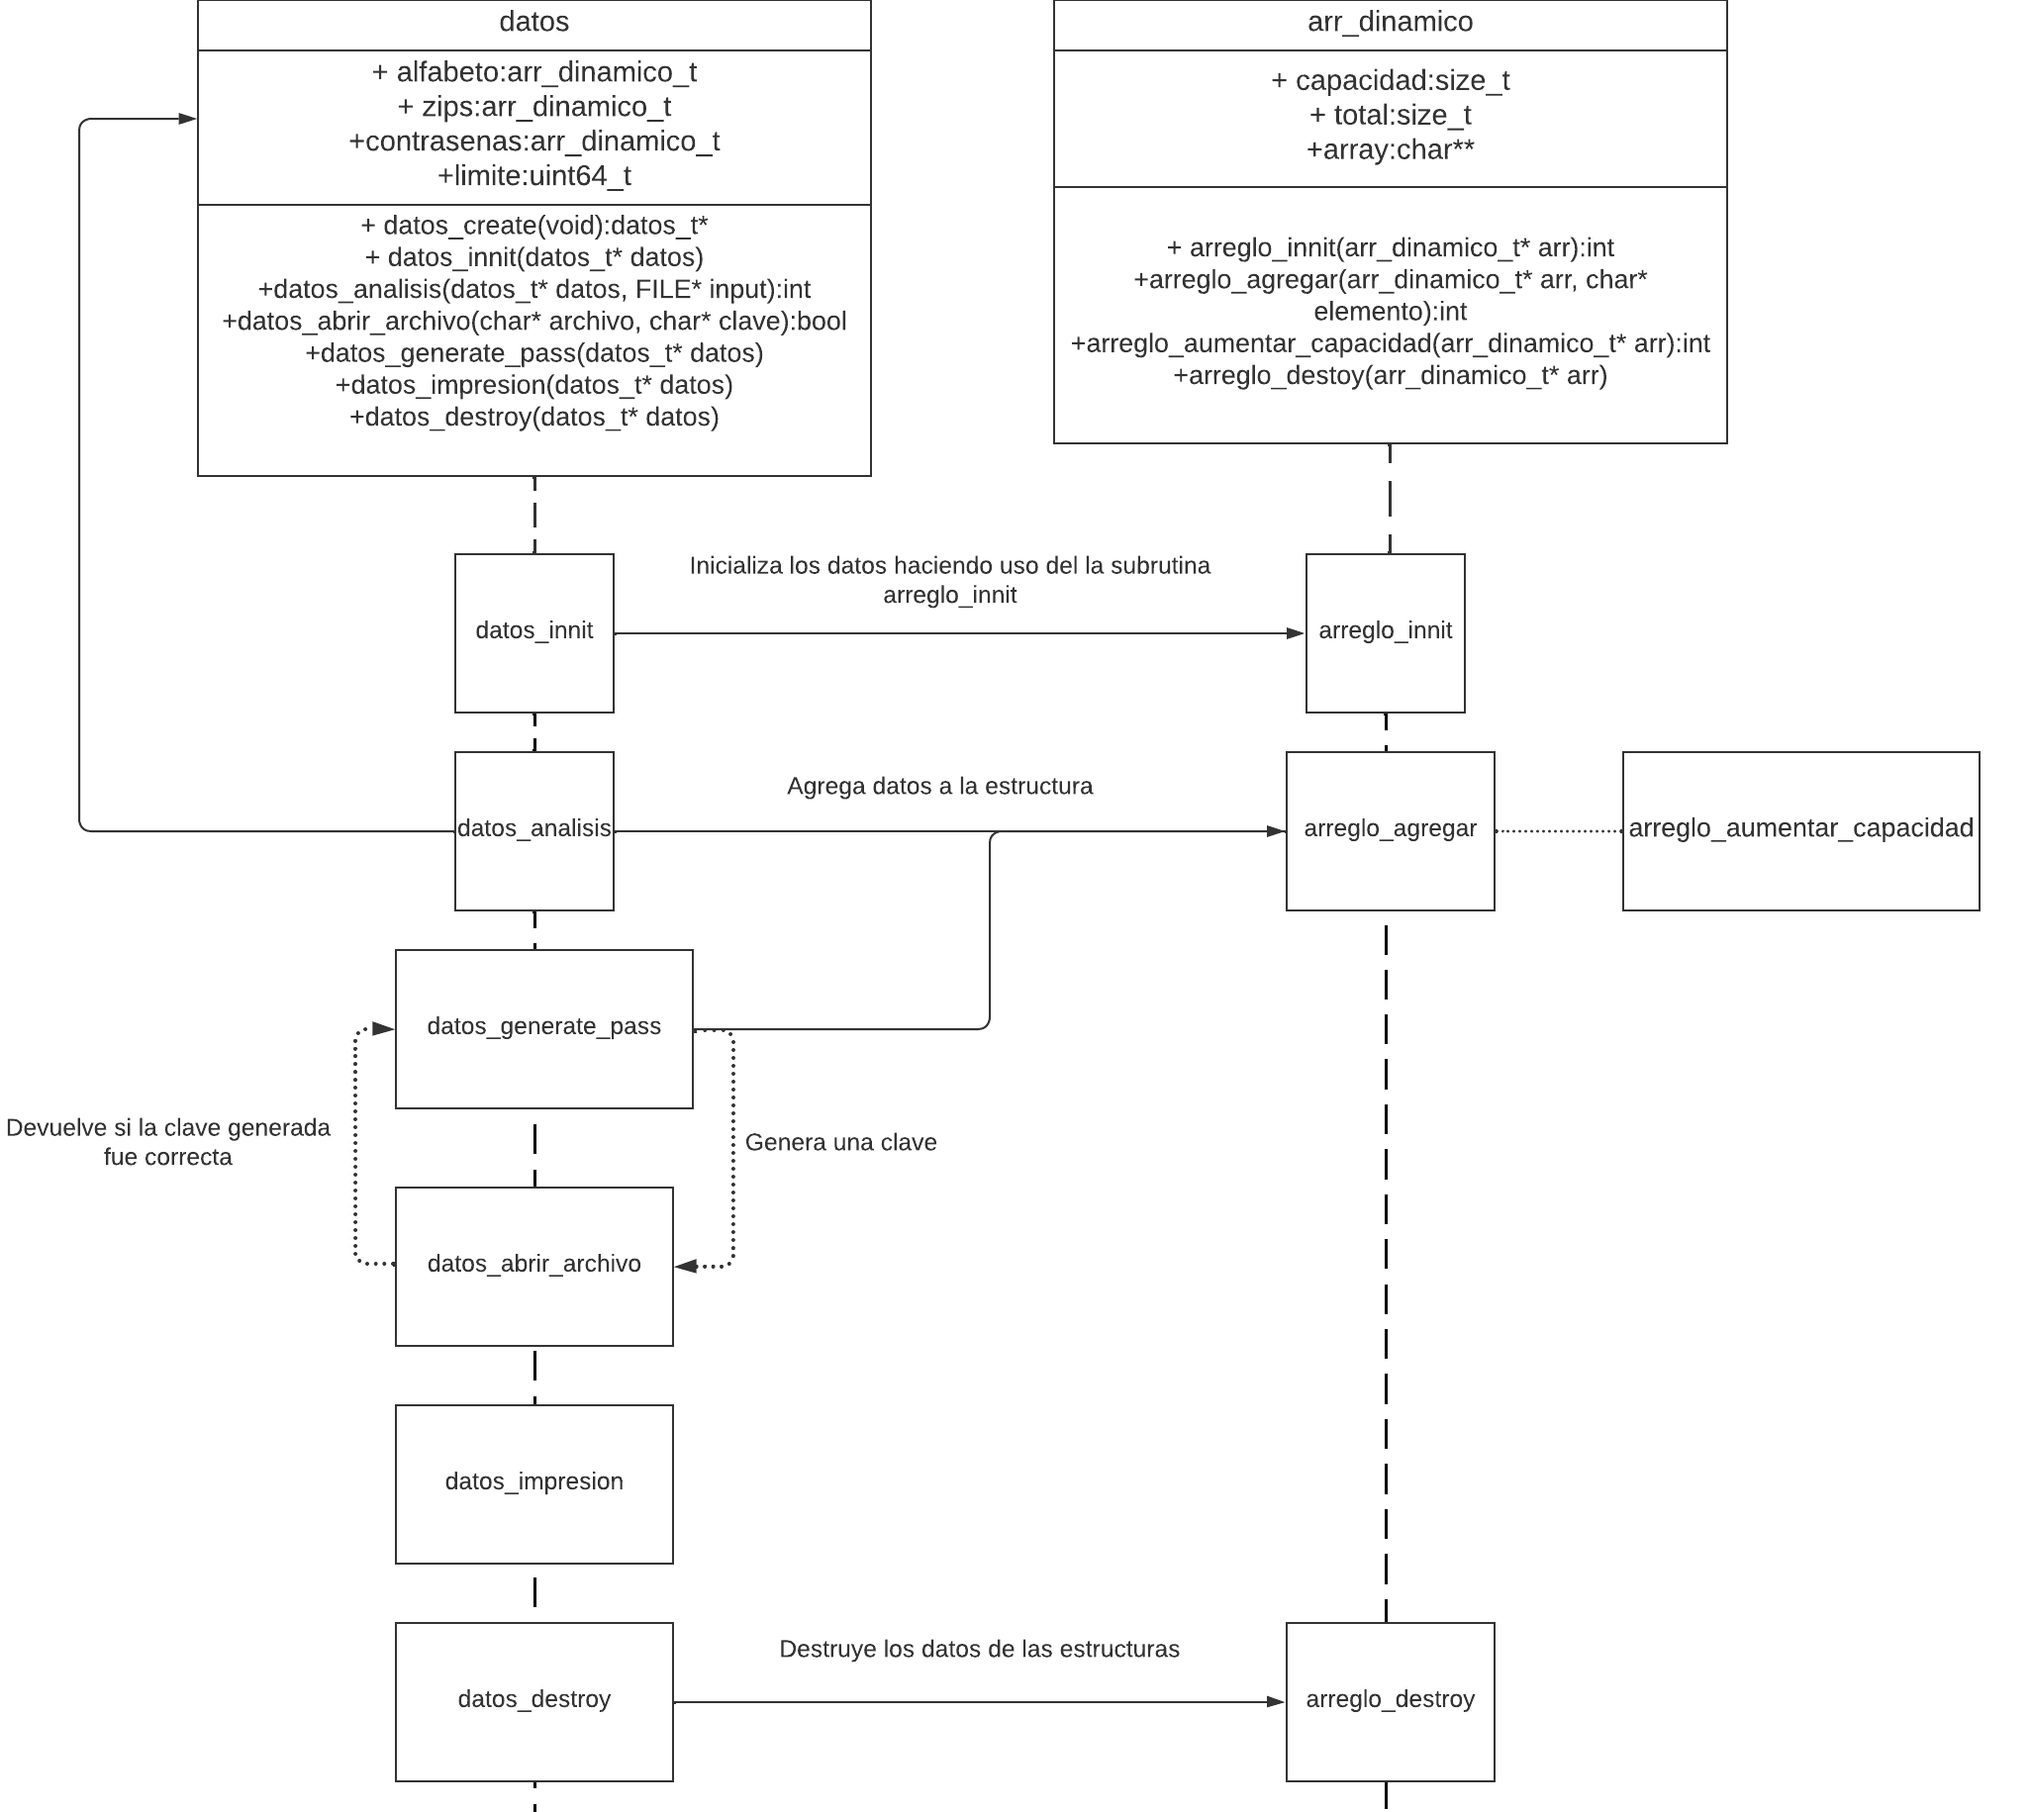
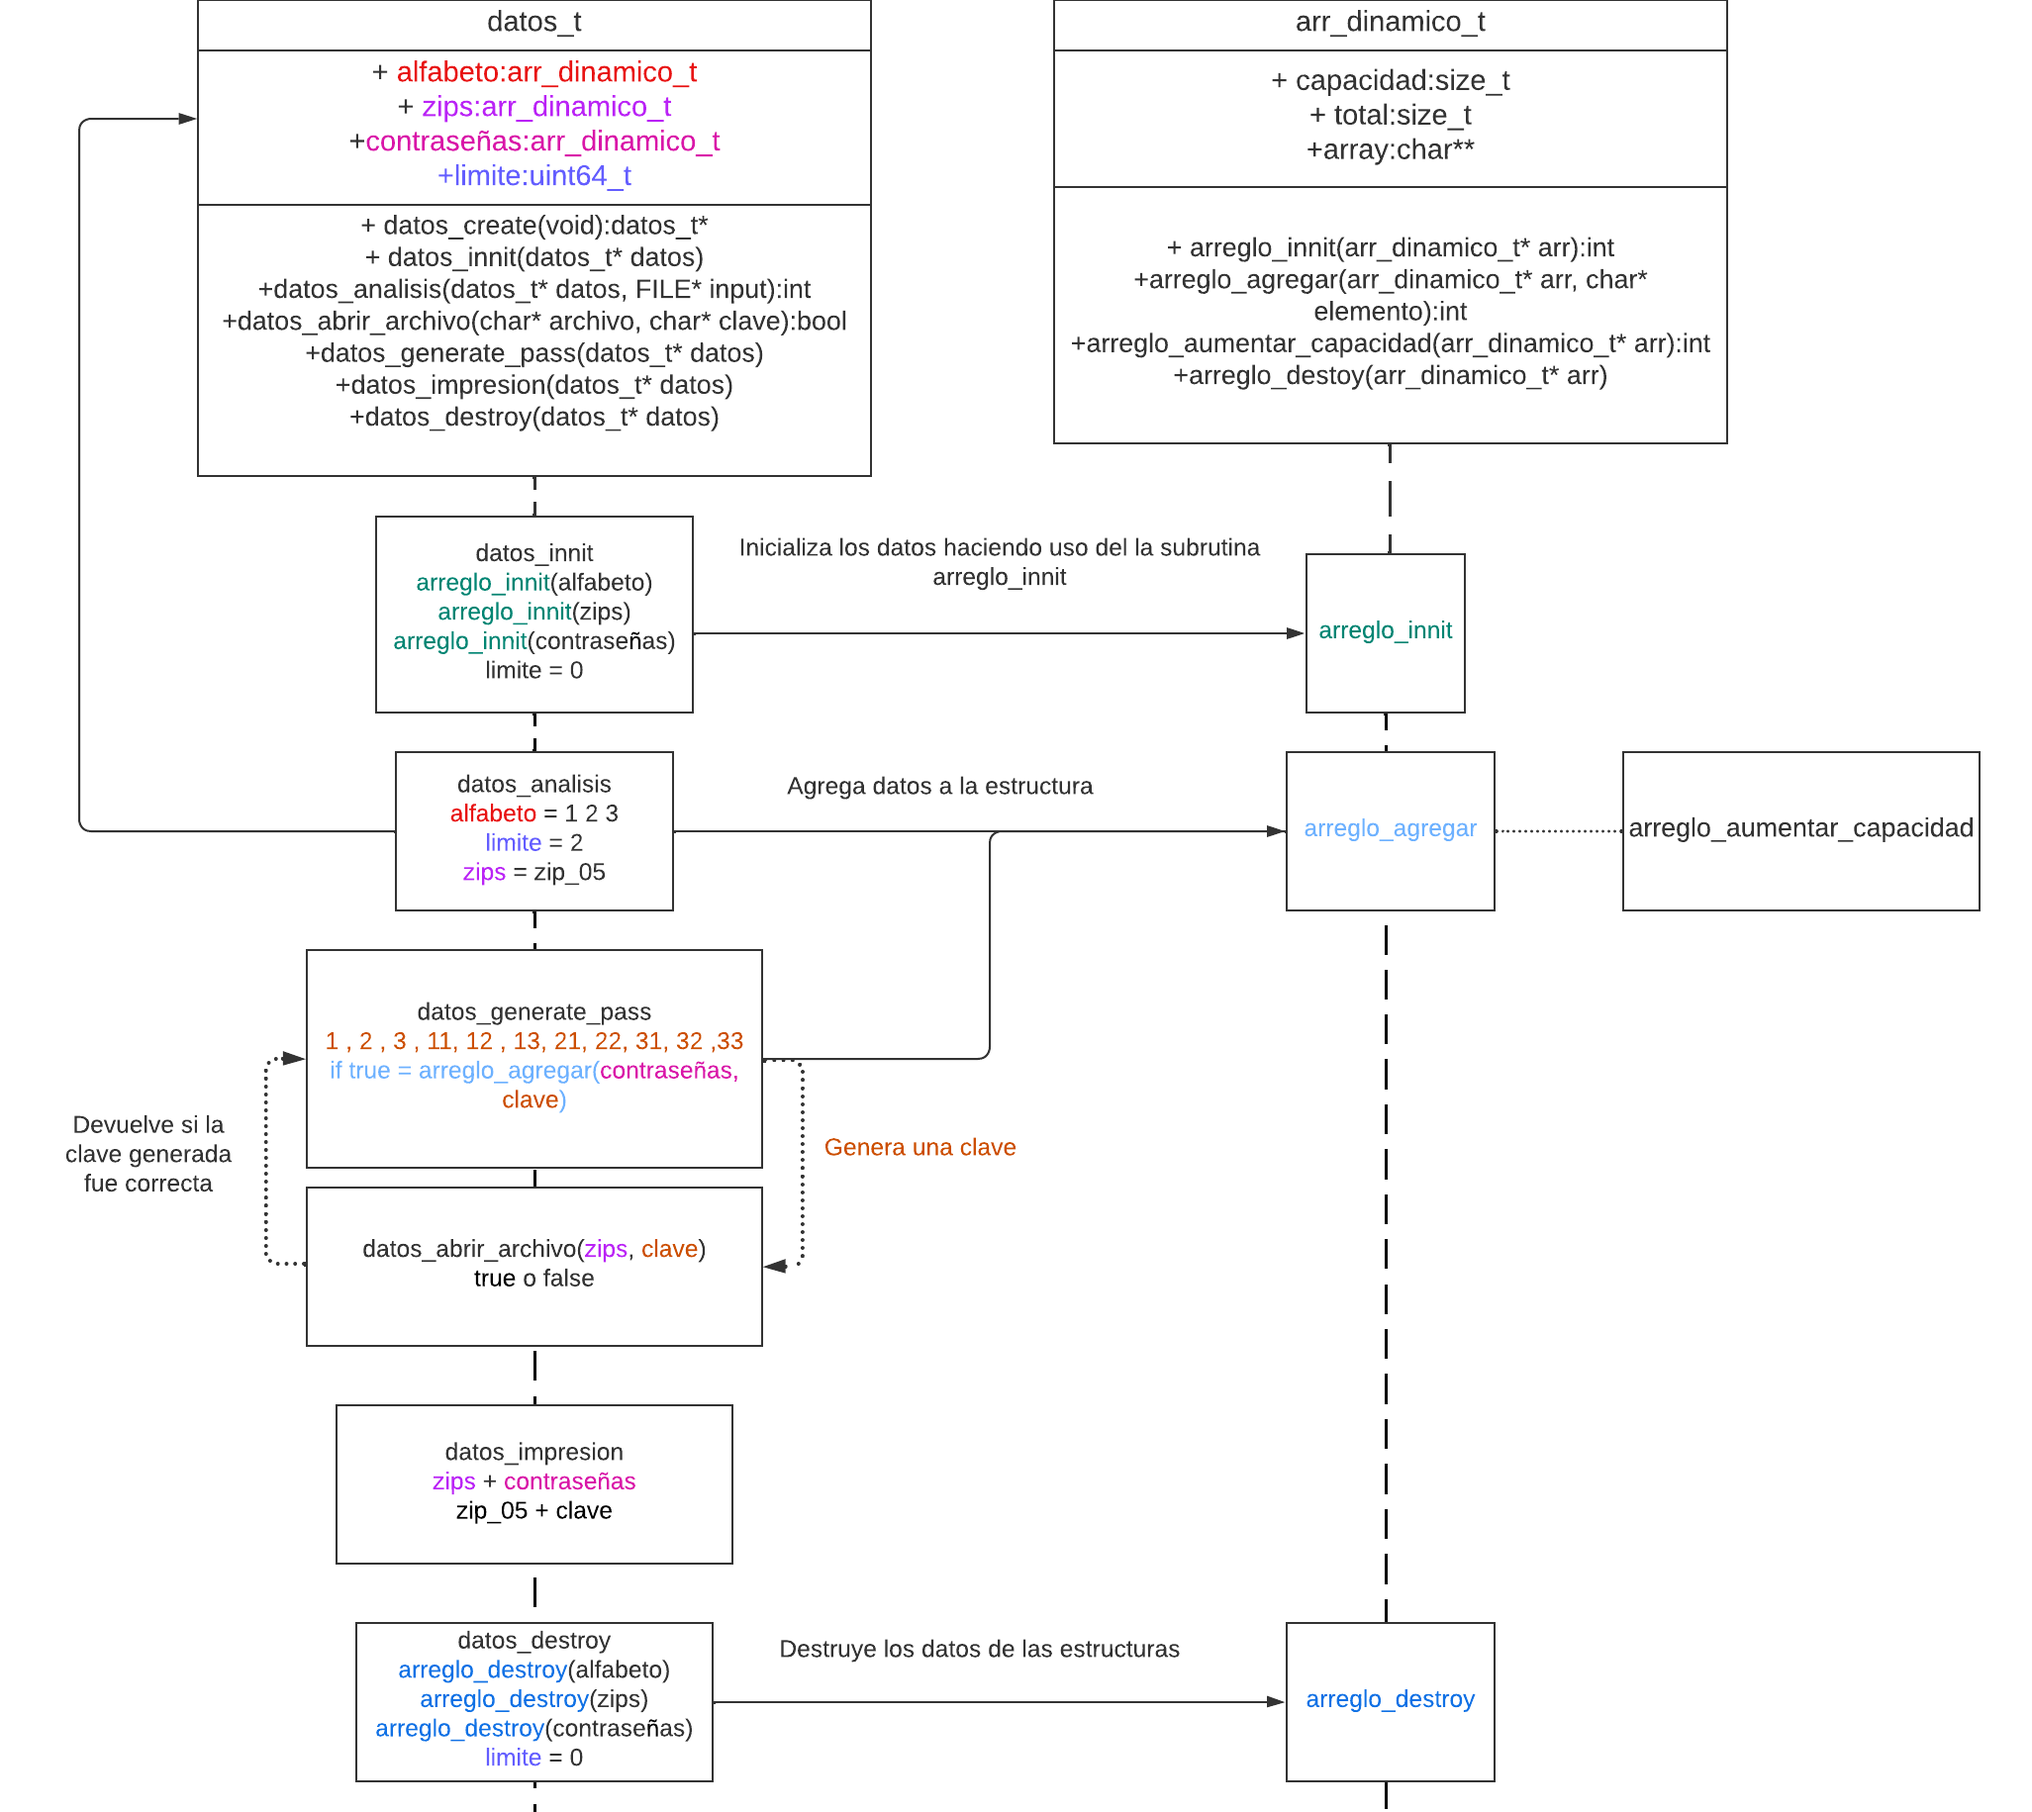
se actualiza el diagrama y se agrega version svg

diff --git a/tareas/tarea01/desing/README.md b/tareas/tarea01/desing/README.md
@@ -1,3 +1,3 @@
-![Diagrama UML](/desing/zippas-serial.png)
+![Diagrama UML](/desing/zippas-serial.svg)
 
-La imagen anterior hace referencia a un diagrama tipo UML, el cual trata de ilustrar las estructuras de datos con sus respectiva subrutinas atributos y sus interacciones entre ellas. Los cuadros mas grandes, representan las dos estructuras de datos utilizadas para el manejo de este programa, de cada una de estas cajas sale una linea vertical la cual representa la secuencia de ejecuccion de las tareas asi como lineas que entrelazan varias subrutinas entre ellas, con un mensaje indicando cual es su relacion.
+La imagen anterior hace referencia a un diagrama tipo UML, el cual trata de ilustrar las estructuras de datos con sus respectiva subrutinas atributos y sus interacciones entre ellas. Los cuadros mas grandes, representan las dos estructuras de datos utilizadas para el manejo de este programa, de cada una de estas cajas sale una linea vertical la cual representa la secuencia de ejecuccion de las tareas asi como lineas que entrelazan varias subrutinas entre ellas, con un mensaje indicando cual es su relacion. De igual manera, se presenta un caso de ejemplo en el cual el alfabeto de contraseñas es formado de 1,2,3, dado esto y un limite maximo de largo de la contraseñas siendo 2 se crean las distintas variantes, y se muestra el flujo de estos datos.
